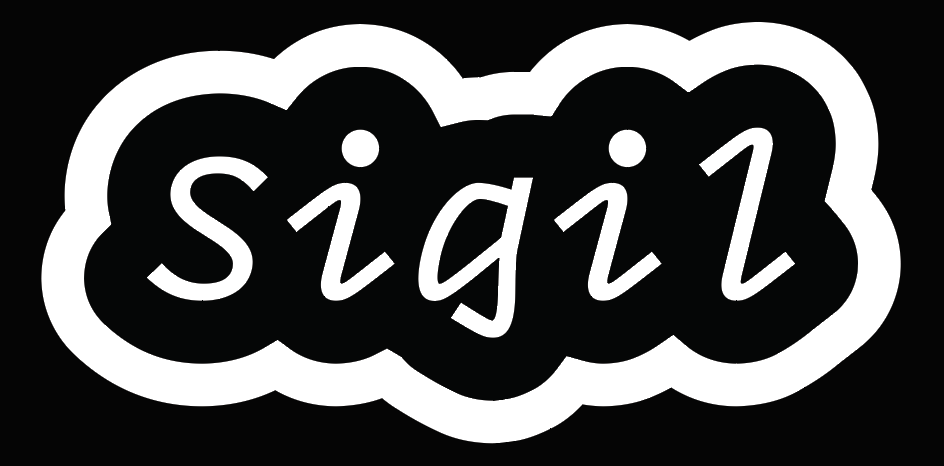
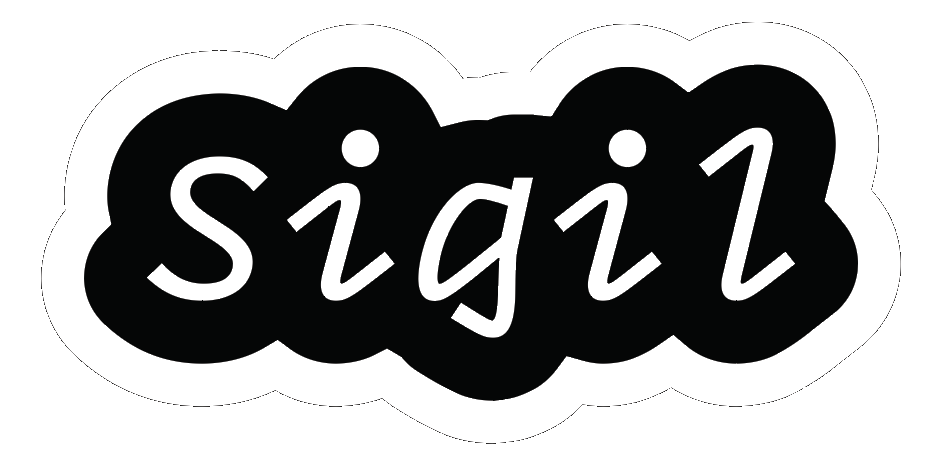
ok

diff --git a/styles.css b/styles.css
@@ -278,9 +278,14 @@ body.is-leaving {
     width: 160px;
     height: auto;
     pointer-events: none;
-    mix-blend-mode: screen;
     transform: rotate(-6deg);
     transition: transform 0.35s cubic-bezier(0.2,0.8,0.2,1);
+}
+
+/* Cloudscope + Treatment stickers are opaque screenshots — screen blend removes the black rect */
+.site-card:nth-child(4) .card-sticker,
+.site-card:nth-child(6) .card-sticker {
+    mix-blend-mode: screen;
 }
 
 .site-card:nth-child(6) .card-sticker {
